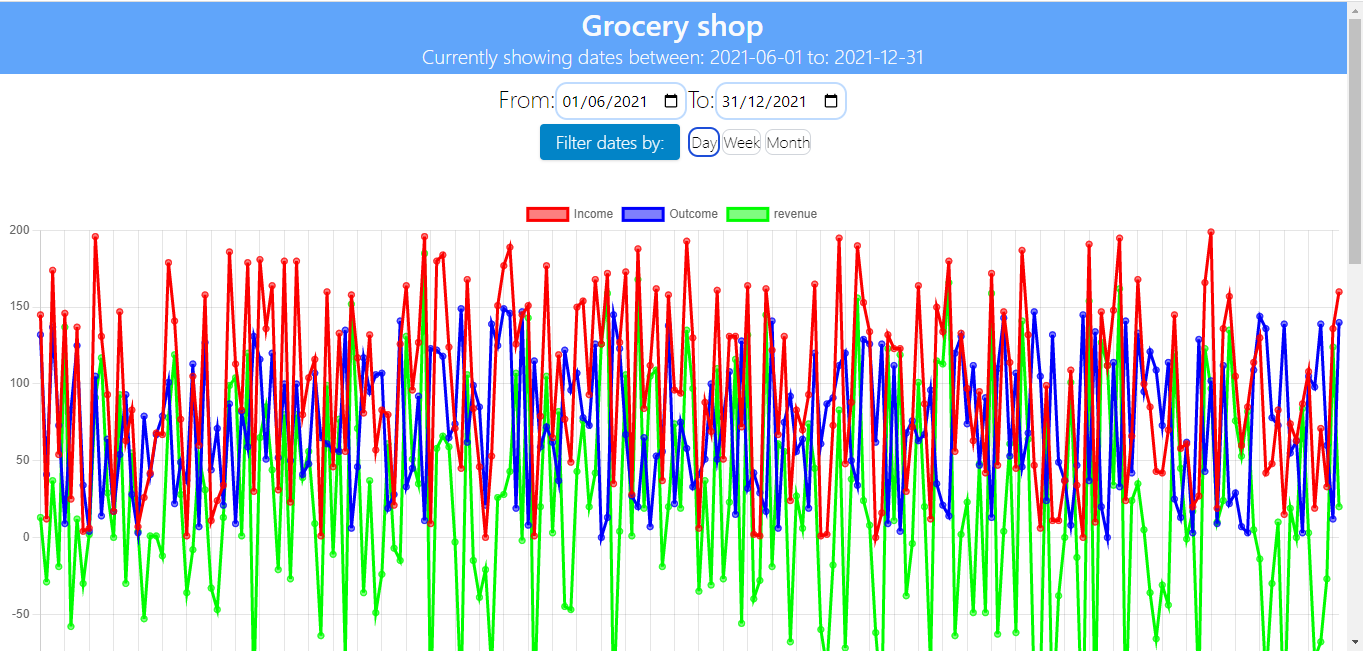
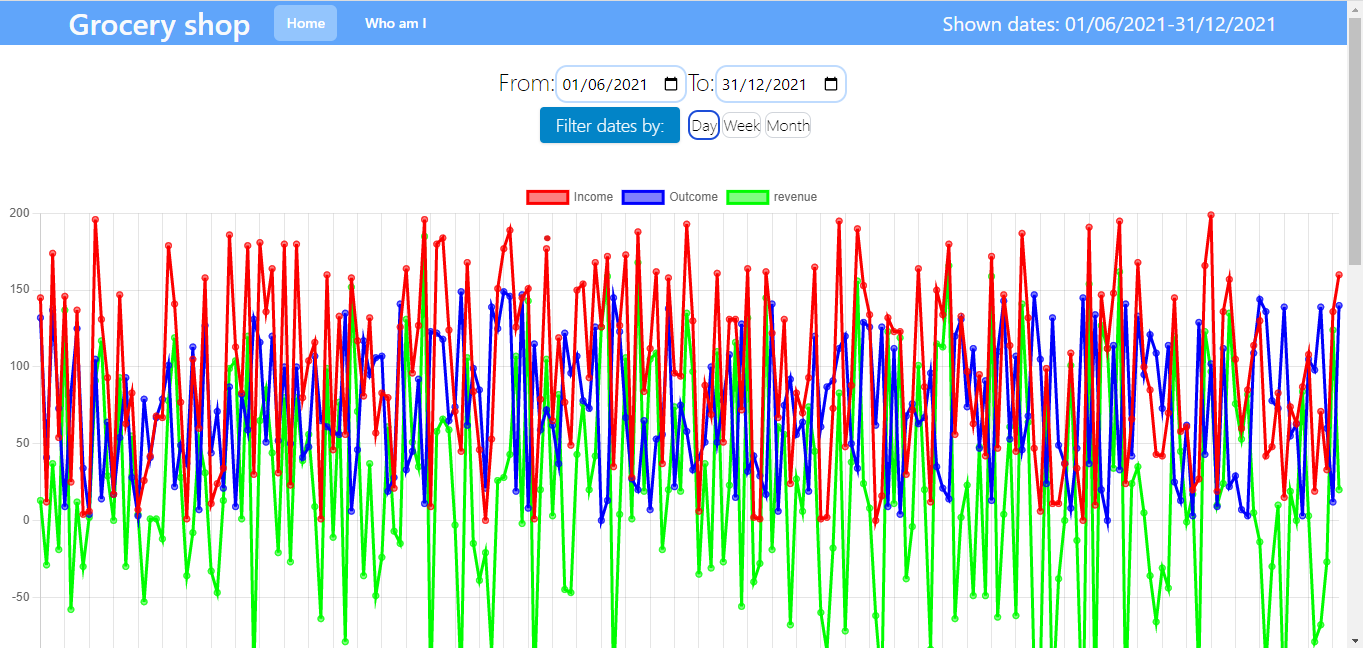
Add README.md

diff --git a/src/utils/chartUtilsFuncs.ts b/src/utils/chartUtilsFuncs.ts
@@ -23,7 +23,7 @@ export function generateData(allStatus: Status[], perTimeStamp: string) {
 				backgroundColor: 'rgba(0, 0,252, 0.5)',
 			},
 			{
-				label: 'revenue',
+				label: 'Revenue',
 				data: revenue,
 				borderColor: 'rgb(0, 252, 0)',
 				backgroundColor: 'rgba(0, 252, 0, 0.5)',

diff --git a/README.md b/README.md
@@ -1,46 +1,61 @@
-# Getting Started with Create React App
+# Sisense Grocery Mangement Client Repo
 
-This project was bootstrapped with [Create React App](https://github.com/facebook/create-react-app).
+## What this repo stands for
 
-## Available Scripts
+Welcome to grocery mangement Client Readme, this app can manage your incomes, outcomes and revenue.
+You are able to see all of your data sorted per day, week or month.
+In addition you can choose which line in the graph you prefer to watch, whether it is one two or all three.
 
-In the project directory, you can run:
+## Features
 
-### `npm start`
+1. See all your data sorted by day.
+2. **(Extra)** The app is fully mobile supproted.
+3. **(Extra)** See all your data sorted weekly or monthly.
+4. **(Extra)** Choose which graph you prefer to watch.
 
-Runs the app in the development mode.\
-Open [http://localhost:3000](http://localhost:3000) to view it in the browser.
+## Technologies
 
-The page will reload if you make edits.\
-You will also see any lint errors in the console.
+The technoloies I chose to use are:
 
-### `npm test`
+1. React.JS.
+2. Chart.JS.
+3. ESLint
+4. TailwindCSS
 
-Launches the test runner in the interactive watch mode.\
-See the section about [running tests](https://facebook.github.io/create-react-app/docs/running-tests) for more information.
+## Instructions
 
-### `npm run build`
+1. Fork this repo into your account.
+2. Clone the forked repo to your computer.
+3. Run `npm install`.
+4. Run the server side.
+5. Run `npm run start` for start recicve requsets on client environment.
 
-Builds the app for production to the `build` folder.\
-It correctly bundles React in production mode and optimizes the build for the best performance.
+## Screenshots
 
-The build is minified and the filenames include the hashes.\
-Your app is ready to be deployed!
+### Regular screen - Dates 1/6/2021-31/12/2021 sorted by day
 
-See the section about [deployment](https://facebook.github.io/create-react-app/docs/deployment) for more information.
+![Example](./screenshots/SortedDay_RegularScreen.png)
 
-### `npm run eject`
+### Regular screen - Dates 1/6/2021-31/12/2021 sorted by Month
 
-**Note: this is a one-way operation. Once you `eject`, you can’t go back!**
+![Example](./screenshots/SortedMonth_RegularScreen.png)
 
-If you aren’t satisfied with the build tool and configuration choices, you can `eject` at any time. This command will remove the single build dependency from your project.
+### Regular screen - Dates 1/6/2021-31/12/2021 only incomes and revenue shown
 
-Instead, it will copy all the configuration files and the transitive dependencies (webpack, Babel, ESLint, etc) right into your project so you have full control over them. All of the commands except `eject` will still work, but they will point to the copied scripts so you can tweak them. At this point you’re on your own.
+![Example](./screenshots/SortedWeekIncomeRevenue_RegularScreen.png)
 
-You don’t have to ever use `eject`. The curated feature set is suitable for small and middle deployments, and you shouldn’t feel obligated to use this feature. However we understand that this tool wouldn’t be useful if you couldn’t customize it when you are ready for it.
+### Mobile screen - Vertical screen will not show any data
 
-## Learn More
+![Example](./screenshots/Vertical_MobileScreen.png)
 
-You can learn more in the [Create React App documentation](https://facebook.github.io/create-react-app/docs/getting-started).
+### Mobile screen - Dates 1/6/2021-31/12/2021 sorted by day
 
-To learn React, check out the [React documentation](https://reactjs.org/).
+![Example](./screenshots/SortedDay_MobileScreen.png)
+
+### Mobile screen - Dates 1/6/2021-31/12/2021 sorted by Month
+
+![Example](./screenshots/SortedMonth_MobileScreen.png)
+
+### Mobile screen - Dates 1/6/2021-31/12/2021 only incomes and outcome shown
+
+![Example](./screenshots/SortedWeekIncomeOutcome_MobileScreen.png)
